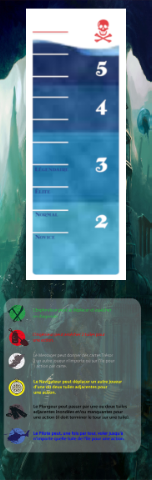
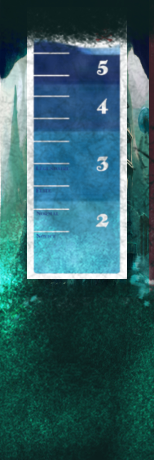
Merge origin/master
Conflicts:
	src/m2104/ile_interdite/modele/IleInterdite.java

diff --git a/src/m2104/ile_interdite/vue/VueNiveau.java b/src/m2104/ile_interdite/vue/VueNiveau.java
@@ -24,7 +24,7 @@ public class VueNiveau {
     private JFrame windowprincipale;
     private final HashMap<Integer, JPanel> panelsGauches;
     private final Integer cellWidth = 54; 
-    private final Integer cellHeight = 275 / 10;
+    private final Integer cellHeight = 275 / 7;
     private final JPanel mainPanel;
 
     public VueNiveau(Integer niveauInitial) {
@@ -36,7 +36,7 @@ public class VueNiveau {
         window.setResizable(Parameters.RESIZABLE);
         window.setTitle("Niveau");
         window.setSize(d);
-        window.setContentPane(new PanelFond("Images/VueNiveau_n.png", 152, 461));
+        window.setContentPane(new PanelFond("Images/VueNiveau.png", 152, 461));
         Dimension dim = Toolkit.getDefaultToolkit().getScreenSize();
         int dimX = 800 + dim.width / 3 - window.getSize().width + 2;
         int dimY = 159;

diff --git a/src/m2104/ile_interdite/vue/VueTresor.java b/src/m2104/ile_interdite/vue/VueTresor.java
@@ -31,8 +31,8 @@ public class VueTresor extends JPanel {
         window = new JFrame();
 
         // parametrage de la fenêtre : 
-        window.setContentPane(new PanelFond(urlTresor));
-        window.setSize(152, 159);
+        window.setContentPane(new PanelFond(urlTresor,152, 160));
+        window.setSize(152, 160);
         window.setTitle("Trésor");
         Dimension dim = Toolkit.getDefaultToolkit().getScreenSize();
         int dimX = 800 + dim.width / 3 - window.getSize().width;
